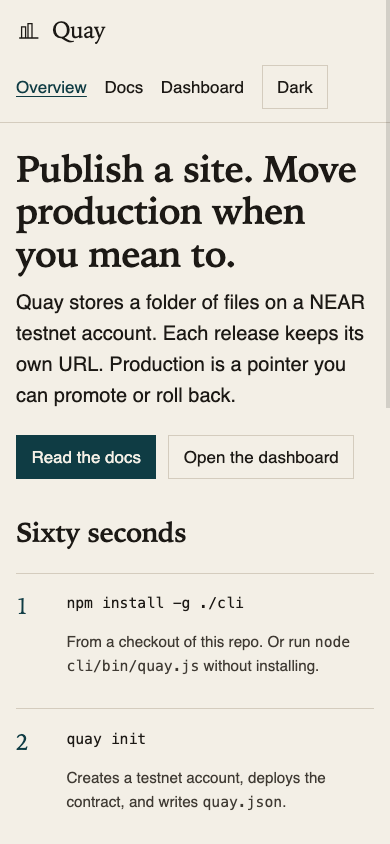
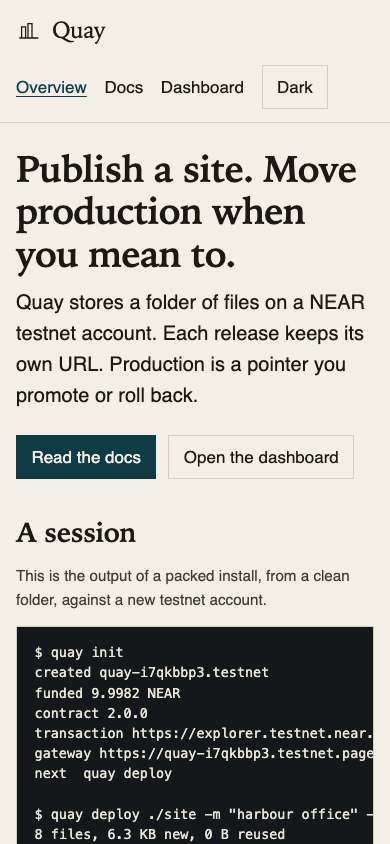
docs: record the live testnet proof and retake the screenshots
The README keeps the packed session, the wallet transaction, and the v1 URL.
Judge checks the live pages without the near CLI.

diff --git a/README.md b/README.md
@@ -2,7 +2,7 @@
 
 Quay publishes a folder of files to a NEAR testnet account. Each publish is a sealed release with its own URL. Production is a pointer you move with `quay promote` or `quay rollback`. A publish-only key can upload a preview. It cannot move production.
 
-The product site is https://quay-esc0v902.testnet.page/. The dashboard is https://quay-esc0v902.testnet.page/dashboard/. A sample with three releases and one rollback is https://quay-65nqd3rn.testnet.page/. The earlier demo on https://quay-bb.testnet.page/ is still serving.
+The product site is https://quay-esc0v902.testnet.page/. The dashboard is https://quay-esc0v902.testnet.page/dashboard/. The sample, four releases with production on 4, is https://quay-65nqd3rn.testnet.page/. The old demo is still at https://quay-bb.testnet.page/ and was left on v1.
 
 ## Install
 
@@ -11,19 +11,21 @@ You need Node 20 or newer, and a checkout of this repo. The package is not on th
 ```sh
 npm install -g ./cli
 quay init
-quay deploy ./dist -m "first landing"
+quay deploy ./dist -m "harbour office"
 quay promote 1
 quay open
 ```
 
-`quay init` asks the testnet faucet for an account, deploys the contract, and writes `quay.json`. Keys stay in `~/.near-credentials/testnet/`. From a checkout you can skip the install and run `node cli/bin/quay.js`.
+`quay init` asks the testnet faucet for an account, deploys the contract, and writes `quay.json`. It prints the funded balance, the contract version, the transaction link, and the next command. The first time it calls the gateway it waits until TLS answers, usually under two minutes. Keys stay in `~/.near-credentials/testnet/`. From a checkout you can skip the install and run `node cli/bin/quay.js`.
 
 `quay --help` lists every command. The same text is on the docs page, generated from that help.
+
+A packed tarball was installed outside this repo and used for a full init, deploy, promote, and rollback. That check is `cli/test/pack.test.mjs`. The live run created `quay-i7qkbbp3.testnet` in [8uJPJg5fNt6Sp8nuFzg5NgvyBqmyDfgshP9Q6UhcQFm](https://explorer.testnet.near.org/transactions/8uJPJg5fNt6Sp8nuFzg5NgvyBqmyDfgshP9Q6UhcQFm), sealed release 1 in [7Gcpxbytc7e38PQKmcEreEWbbUxhKLxJJqoPmtW4Zu6m](https://explorer.testnet.near.org/transactions/7Gcpxbytc7e38PQKmcEreEWbbUxhKLxJJqoPmtW4Zu6m), promoted it in [7mTJfzbzDndriv1yp19qwdMmLdLRV1Vn2kEegGkGD3L3](https://explorer.testnet.near.org/transactions/7mTJfzbzDndriv1yp19qwdMmLdLRV1Vn2kEegGkGD3L3), sealed release 2 in [981d7EKomzu74xVGLz1TMqMMyPACFoLhZSDN7y5g8wNZ](https://explorer.testnet.near.org/transactions/981d7EKomzu74xVGLz1TMqMMyPACFoLhZSDN7y5g8wNZ), promoted it in [jJmjCbiszXx55TixVBFoAnaBBoHnHnT3HPdzWPjzBix](https://explorer.testnet.near.org/transactions/jJmjCbiszXx55TixVBFoAnaBBoHnHnT3HPdzWPjzBix), and rolled back in [BVd5snJxXBwe2Hp26UB4NdKaPn4AB6C98vpsQLawpwHb](https://explorer.testnet.near.org/transactions/BVd5snJxXBwe2Hp26UB4NdKaPn4AB6C98vpsQLawpwHb).
 
 ## Sixty seconds
 
 1. `quay init` creates the account and the contract.
-2. `quay deploy ./dist -m "first landing"` uploads the folder, skips bytes already stored, and prints a preview URL such as `https://<name>.testnet.page/r/1/`.
+2. `quay deploy ./dist -m "harbour office"` uploads the folder, skips bytes already stored, and prints a preview URL such as `https://<name>.testnet.page/r/1/`, the seal transaction, and `quay promote 1`.
 3. `quay promote 1` points the host root at that release. The preview URL does not change.
 4. `quay rollback` swaps production with the previous release.
 
@@ -33,7 +35,7 @@ A directory needs `index.html`. Put `404.html` in the folder for unknown paths. 
 
 NEAR locks 0.01 NEAR per 1,000 bytes of stored state, about 1 NEAR per 100 KB, plus a little for each trie record. Deleting a release that is not production unlocks those bytes on the contract account. The lock is not transferred to you. The contract wasm is 216,419 bytes and locks a little over 2 NEAR by itself.
 
-The two accounts funded for this repo came from the faucet at about 10 NEAR each. Gas burned about 0.01 NEAR in total. Storage still locked is about 2.56 NEAR on `quay-esc0v902.testnet` (contract plus the product site) and about 2.27 NEAR on `quay-65nqd3rn.testnet` (contract plus the sample).
+After the current product deploy, `quay-esc0v902.testnet` holds 9.9888 NEAR, of which 3.6817 is locked and 6.3071 is free. The harbour sample holds 9.9720 NEAR, of which 2.3558 is locked and 7.6162 is free. Its sealed files are 9,588 bytes. The packed-CLI account holds 10.0134 NEAR, of which 2.3151 is locked and 7.6983 is free, and the contract reports 7,674 stored bytes.
 
 ## CI
 
@@ -41,7 +43,19 @@ The two accounts funded for this repo came from the faucet at about 10 NEAR each
 quay keys create --ci
 ```
 
-The secret is printed once. Store it as the GitHub Actions secret `QUAY_CI_KEY`, and the account id as `QUAY_ACCOUNT`. The composite action is `action/action.yml`. The example workflow is `examples/harbour/.github/workflows/preview.yml`. A job that uses that key can deploy. `quay promote` exits 3 before it sends. On chain, a relayed promote is refused: https://explorer.testnet.near.org/transactions/8efXfntramSDtXuWpA87kAWpsMwYQPo7QUzwPo6AuM4G
+The secret is printed once. Store it as the GitHub Actions secret `QUAY_CI_KEY`, and the account id as `QUAY_ACCOUNT`. The composite action is `action/action.yml`. The example workflow is `examples/harbour/.github/workflows/preview.yml`. `sh scripts/ci-local.sh` runs those steps without GitHub: it installs the CLI, deploys with the publish-only key, and requires `quay promote --ci` to exit 3.
+
+The key's method list is `put_chunk` and `seal`. Allowance is omitted, so gas is unlimited. A function-call key still cannot attach the 1 yoctoNEAR deposit that promote, rollback, and delete require. On `quay-i7qkbbp3.testnet` the local script sealed a preview, refused promote before a transaction, and an on-chain promote with that key failed in [58YRcXZZZMPrmNgNCpEm4ssTWC6sCM73we6wKKD9smTT](https://explorer.testnet.near.org/transactions/58YRcXZZZMPrmNgNCpEm4ssTWC6sCM73we6wKKD9smTT). An earlier harbour key was created with a zero gas allowance, so it cannot pay for `put_chunk`. Its promote refusal is still [8efXfntramSDtXuWpA87kAWpsMwYQPo7QUzwPo6AuM4G](https://explorer.testnet.near.org/transactions/8efXfntramSDtXuWpA87kAWpsMwYQPo7QUzwPo6AuM4G).
+
+## An agent
+
+`examples/agent` calls the CLI as a library. A live run against `quay-i7qkbbp3.testnet` paid for storage from `quay-65nqd3rn.testnet` in [89XB1BDKEFzGn6y6RZGevttW9bQiugajskaYfBHfBXE1](https://explorer.testnet.near.org/transactions/89XB1BDKEFzGn6y6RZGevttW9bQiugajskaYfBHfBXE1) and sealed the page in [5e8XmDaueVSLJ6fcvC5mnpevzFFBewYFswwrWk74sEfQ](https://explorer.testnet.near.org/transactions/5e8XmDaueVSLJ6fcvC5mnpevzFFBewYFswwrWk74sEfQ). The preview is https://quay-i7qkbbp3.testnet.page/r/4/. Promote with the publish-only key was refused before a transaction.
+
+## Dashboard signing
+
+Open `https://quay-esc0v902.testnet.page/dashboard/?account=<account>`. The page reads without a key. Sign in with a testnet wallet that near-connect offers, then promote, roll back, or delete. The page never holds a key.
+
+MyNearWallet's testnet app imported `quay-i7qkbbp3.testnet`, and then stopped short: the testnet wallet list does not offer MyNearWallet, and that wallet has switched off new app connections. Intear Wallet, in the same headless browser, signed in as that account and rolled production back to release 2 in [GdZ42tyCTj5AWGyUsFGZzbyTjAC7YiG9j3oDkoTYcAQw](https://explorer.testnet.near.org/transactions/GdZ42tyCTj5AWGyUsFGZzbyTjAC7YiG9j3oDkoTYcAQw).
 
 ## Layout
 
@@ -52,16 +66,14 @@ The secret is printed once. Store it as the GitHub Actions secret `QUAY_CI_KEY`,
 | `web/` | Landing page, docs, and dashboard. `node web/build.mjs` writes `web/dist`. |
 | `examples/harbour/` | The Vite sample. |
 | `examples/agent/` | A script that calls the CLI as a library. |
-| `examples/original-demo/` | The pages sealed on `quay-bb.testnet`. |
+| `examples/original-demo/` | The pages sealed on the old v1 demo. |
 | `action/` | The GitHub Actions preview action. |
 
 `sh scripts/build.sh` builds the site and the sample. `sh scripts/test.sh` runs the contract tests, the CLI tests, and the sandbox suite. `sh scripts/judge.sh` checks the live sites and does not need a key.
 
 ## Judge steps
 
-No key. You need `cargo`, `curl`, `node`, `shasum`, and `near` (near-cli-rs) on `PATH`. The same checks are `sh scripts/judge.sh`.
-
-The v1 site stays up. Do these and see the old demo, then the product.
+No key. You need `cargo`, `curl`, `node`, and `shasum` on `PATH`. The same checks are `sh scripts/judge.sh`.
 
 1. Run the contract tests.
 
@@ -71,84 +83,54 @@ The v1 site stays up. Do these and see the old demo, then the product.
 
    See `sealed_release_bytes_stick` and `publish_key_cannot_promote` pass.
 
-2. Open the v1 production page.
-
-   ```sh
-   curl -fsS https://quay-bb.testnet.page/
-   ```
-
-   See `production: release`. The response `cache-control` is `public, max-age=0, must-revalidate`.
-
-3. Open v1 release 1 and hash the body.
-
-   ```sh
-   curl -fsS https://quay-bb.testnet.page/r/1 | shasum -a 256
-   ```
-
[1 lines of base64/hex data omitted]
-
-4. Read the v1 production pointer.
-
-   ```sh
-   near contract call-function as-read-only quay-bb.testnet get_production json-args '{}' network-config testnet now
-   ```
-
-   See `"2"`.
-
-5. Open the v1 rejected promote.
-
-   https://explorer.testnet.near.org/transactions/9HNfzPWK5GMzfQQ7J5U9fTJGv4wtmieqkZMGE3sQ5esG
-
-   See a delegate action signed by `ed25519:5ibCru26UTkfcfhxQe4EKk4b5Mhpwh78zjKNGaEXzgxT` calling `promote`. The receipt fails with `MethodNameMismatch`.
-
-6. Open the product site.
+2. Open the product site.
 
    ```sh
    curl -fsS https://quay-esc0v902.testnet.page/
    curl -fsS https://quay-esc0v902.testnet.page/docs/
-   curl -fsS https://quay-esc0v902.testnet.page/dashboard/
+   curl -fsS https://quay-esc0v902.testnet.page/dashboard/?account=quay-65nqd3rn.testnet
    ```
 
-   See "Move production when you mean to" on the home page, `quay deploy` in the docs, and the dashboard. The site was sealed in [8cw5GJDwYGPkfXVDPV2D5pv1i3EwcfKAzjMGgkh7g4YW](https://explorer.testnet.near.org/transactions/8cw5GJDwYGPkfXVDPV2D5pv1i3EwcfKAzjMGgkh7g4YW) and promoted in [7yA3L73W6HVbjKUR1BuZdU1TVRG7GKxsNUE83NKRJGsR](https://explorer.testnet.near.org/transactions/7yA3L73W6HVbjKUR1BuZdU1TVRG7GKxsNUE83NKRJGsR).
+   See "Move production when you mean to", `quay deploy`, and "Try the sample". The live release was sealed in [GVaCG3UJ2FYqxjgXhmGm6XU5JaoevjC42PEctAotwUuu](https://explorer.testnet.near.org/transactions/GVaCG3UJ2FYqxjgXhmGm6XU5JaoevjC42PEctAotwUuu) and promoted in [3Tpjeg2apmT38B686SxbfNsKnMsHeJxdFTuRyn5xXfDH](https://explorer.testnet.near.org/transactions/3Tpjeg2apmT38B686SxbfNsKnMsHeJxdFTuRyn5xXfDH).
 
-7. Open the sample. Production is release 2 after a rollback. Releases 1 and 3 are still at their URLs.
+3. Open the sample. Production is release 4. The previous pointer is 2. Releases 1, 2, and 3 stay at their URLs.
 
    ```sh
    curl -fsS https://quay-65nqd3rn.testnet.page/
+   curl -fsS https://quay-65nqd3rn.testnet.page/berth/
+   curl -fsS https://quay-65nqd3rn.testnet.page/chart.svg
    curl -fsS https://quay-65nqd3rn.testnet.page/r/1/
    curl -fsS https://quay-65nqd3rn.testnet.page/r/3/
    ```
 
-   See `id="release">2` on production, `1` on `/r/1/`, and `3` on `/r/3/`. The rollback transaction is [ED8gqjTUsZSsB31TbV2sHAz4wfX1LvUPYQnpSsfH1ixz](https://explorer.testnet.near.org/transactions/ED8gqjTUsZSsB31TbV2sHAz4wfX1LvUPYQnpSsfH1ixz).
+   See `id="release">4` on production, the berth page, the chart, `1` on `/r/1/`, and `3` on `/r/3/`.
 
-8. Read the sample status. No key.
+   Seals and promotions: release 1 [vJzgAg1JYR4FFhMEVXnQCxC9RmLBmzr7Gef5WTBpSb1](https://explorer.testnet.near.org/transactions/vJzgAg1JYR4FFhMEVXnQCxC9RmLBmzr7Gef5WTBpSb1) and [CQL9fMZRyu2wQ3kYGHfoiuc1Fwpk57aA95fwL7i1nft5](https://explorer.testnet.near.org/transactions/CQL9fMZRyu2wQ3kYGHfoiuc1Fwpk57aA95fwL7i1nft5), release 2 [FZbrU9eYKc4D1zCoQUq9UawjCsWj2cVH5DPLKFKeyEno](https://explorer.testnet.near.org/transactions/FZbrU9eYKc4D1zCoQUq9UawjCsWj2cVH5DPLKFKeyEno) and [2koqS96kNYpFn7rarWzwEDHd9A48Ux18t5QEzHySnSkn](https://explorer.testnet.near.org/transactions/2koqS96kNYpFn7rarWzwEDHd9A48Ux18t5QEzHySnSkn), release 3 [u7An7nxhdYpuGL9r2vcsSGMDWbMGX4QRkkMYktaHTkv](https://explorer.testnet.near.org/transactions/u7An7nxhdYpuGL9r2vcsSGMDWbMGX4QRkkMYktaHTkv) and [bhdz1aR5f6HMSbTwCGE9PgxRMhpq8zV64YWcgb18bH4](https://explorer.testnet.near.org/transactions/bhdz1aR5f6HMSbTwCGE9PgxRMhpq8zV64YWcgb18bH4), the rollback [ED8gqjTUsZSsB31TbV2sHAz4wfX1LvUPYQnpSsfH1ixz](https://explorer.testnet.near.org/transactions/ED8gqjTUsZSsB31TbV2sHAz4wfX1LvUPYQnpSsfH1ixz), release 4 [5YMNMexGTbGeqQHQvrnNp2L6SEsMXVs3Q4dyfUnfHZjc](https://explorer.testnet.near.org/transactions/5YMNMexGTbGeqQHQvrnNp2L6SEsMXVs3Q4dyfUnfHZjc) and [F56bq5R6EKCnNHcY1MsEboJYB214kpGdkWu2shbyvNz1](https://explorer.testnet.near.org/transactions/F56bq5R6EKCnNHcY1MsEboJYB214kpGdkWu2shbyvNz1). The account-creation transaction for this sample was not retained.
+
+4. Read the sample status. No key.
 
    ```sh
    curl -fsS https://test.rpc.fastnear.com -H 'content-type: application/json' \
      -d '{"jsonrpc":"2.0","id":"1","method":"query","params":{"request_type":"call_function","account_id":"quay-65nqd3rn.testnet","method_name":"get_status","args_base64":"e30=","finality":"final"}}'
    ```
 
-   The result bytes decode to JSON with `"version":"2.0.0"`, `"production":"2"`, and `"previous":"3"`.
+   The result bytes decode to JSON with `"version":"2.0.0"`, `"production":"4"`, and `"previous":"2"`.
 
-9. Open the v2 publish-only refusal.
+5. Open the publish-only refusal.
 
-   https://explorer.testnet.near.org/transactions/8efXfntramSDtXuWpA87kAWpsMwYQPo7QUzwPo6AuM4G
+   https://explorer.testnet.near.org/transactions/58YRcXZZZMPrmNgNCpEm4ssTWC6sCM73we6wKKD9smTT
 
-   The signer is the publish-only key `ed25519:DaAfMdDQ8hdVNvCu75Z7su3uZpoapwFDJjMrL4B3TMvx` on `quay-65nqd3rn.testnet`. The call is `promote` with id `ci-prove`. The receipt fails because that key's method list is `put_chunk` and `seal`.
-
-The v1 contract was deployed in [3PJ5vXuwsrMebY9bgSxuSVUnc5hYFqohHxMqiygESiUu](https://explorer.testnet.near.org/transactions/3PJ5vXuwsrMebY9bgSxuSVUnc5hYFqohHxMqiygESiUu) and kept across a later code deploy in [FJEpxzffwhyFcHHTfxezs5PUobXqhPJUuZfMTMjvfZaD](https://explorer.testnet.near.org/transactions/FJEpxzffwhyFcHHTfxezs5PUobXqhPJUuZfMTMjvfZaD). An outsider promote panicked `only this account` in [GgWVBft3oR9jDUj8UWtrCFLLEh3XB9qa5z7ExgL7VoW3](https://explorer.testnet.near.org/transactions/GgWVBft3oR9jDUj8UWtrCFLLEh3XB9qa5z7ExgL7VoW3). Production on that account was moved to release 2 in [5zZvwp45vB3Rq4BLFTpqxQyvWrhAwS8qv8UFtrDcZmPJ](https://explorer.testnet.near.org/transactions/5zZvwp45vB3Rq4BLFTpqxQyvWrhAwS8qv8UFtrDcZmPJ). It is still `"2"`.
+   The receipt fails because that key cannot call `promote`.
 
 ## Limits
 
-Testnet only. The CLI refuses any other network. The public pages depend on the `testnet.page` gateway. An extra host label, such as `www.<account>.testnet.page`, fails TLS. A full-access key can replace the wasm. Releases are not owner-proof against that key. The payload cap is 2,000,000 bytes. Details, including the chunk and file limits, are on the docs page.
+Testnet only. The CLI refuses any other network. The public pages depend on the `testnet.page` gateway. A new host has no certificate until the first request. `quay init` and the first `quay deploy` poll until the gateway answers, and say so. An extra host label, such as `www.<account>.testnet.page`, fails TLS. A full-access key can replace the wasm. Releases are not owner-proof against that key. The payload cap is 2,000,000 bytes. Details, including the chunk and file limits, are on the docs page.
 
-`migrate` can read the v1 state shape. It was not run on `quay-bb.testnet`. That account keeps the v1 wasm so the old URLs stay stable.
-
-The dashboard signs promote, rollback, and delete with the wallet's `signAndSendTransaction`. This pass checked lookup, empty, and error states in a browser. It did not complete a wallet popup.
+`quay-bb.testnet` was not migrated. The old demo stays on v1 at https://quay-bb.testnet.page/.
 
 ## Built with NEAR's official tooling
 
-The contract is near-sdk 5.30.1. The CLI uses near-api-js 7.4.0. Sandbox tests use near-sandbox 0.4.0 and near-api 0.8.7, which is what the current `near-smart-contracts` skill uses for a local node. The dashboard loads `@hot-labs/near-connect` 0.12.0 from esm.sh and does not put a key in the page. Skills installed in this worktree: `near-smart-contracts`, `near-contract-audit`, `near-cli-rs`, `near-dapp`, `near-api-js`, and `near-kit`. Contract questions were checked against NEAR Docs at `https://docs.near.org/mcp`. The v1 judge step still uses near-cli-rs. The product CLI does not.
+The contract is near-sdk 5.30.1. The CLI uses near-api-js 7.4.0. Sandbox tests use near-sandbox 0.4.0 and near-api 0.8.7, which is what the current `near-smart-contracts` skill uses for a local node. The dashboard loads `@hot-labs/near-connect` 0.12.0 from esm.sh and does not put a key in the page. Skills installed in this worktree: `near-smart-contracts`, `near-contract-audit`, `near-cli-rs`, `near-dapp`, `near-api-js`, and `near-kit`. Contract questions were checked against NEAR Docs at `https://docs.near.org/mcp`. The product CLI does not shell out to `near`.
 
 ## Disclosure
 

diff --git a/CHANGELOG.md b/CHANGELOG.md
@@ -2,10 +2,11 @@
 
 ## 2.0.0
 
-- The contract stores release metadata, a promotion history, rollback, and delete with a storage unlock. `migrate` reads a v1 state. `quay-bb.testnet` is still on v1.
-- `quay` is an npm package, `quay-near`, and talks to testnet with near-api-js. It does not shell out to `near`.
-- A landing page, docs, and a dashboard are deployed with Quay. The dashboard can promote, roll back, and delete after a testnet wallet signs.
-- `examples/harbour` is a small Vite site with three releases and one rollback. `examples/agent` calls the CLI as a library. `action/` is the preview action.
+- The contract stores release metadata, a promotion history, rollback, and delete with a storage unlock. `migrate` reads a v1 state. `quay-bb.testnet` stays on v1.
+- `quay` is an npm package, `quay-near`, and talks to testnet with near-api-js. It does not shell out to `near`. `quay init` and the first deploy wait for the gateway certificate. Deploy prints the next command and the explorer link.
+- A landing page, docs, and a dashboard are deployed with Quay. The dashboard opens from `?account=`, marks production and the previous release, and can promote, roll back, or delete after a testnet wallet signs.
+- A publish-only key gets unlimited gas and a method list of `put_chunk` and `seal`. It still cannot attach the deposit those other methods require.
+- `examples/harbour` is a small multi-page site. `examples/agent` calls the CLI as a library. `action/` is the preview action, and `scripts/ci-local.sh` runs it without GitHub.
 
 ## 1.0.0
 

diff --git a/AGENTS.md b/AGENTS.md
@@ -10,7 +10,7 @@ Testnet contract and CLI that publish sealed site releases and move a production
 - Network is testnet. Do not use mainnet, NEAR Intents, or real funds. Do not migrate `quay-bb.testnet` in place. It stays on the v1 wasm.
 - Official NEAR skills live in `.grok/skills/` and are gitignored. The docs MCP is `.grok/config.toml`.
 - A full-access key can replace the wasm. Releases are not owner-proof.
-- The public host is `https://<name>.testnet.page` for account `<name>.testnet`. An extra host label fails TLS.
+- The public host is `https://<name>.testnet.page` for account `<name>.testnet`. An extra host label fails TLS. A new host has no certificate until the gateway sees the first request. `quay init` and the first `quay deploy` wait for that.
 
 ## Maintaining this file
 
